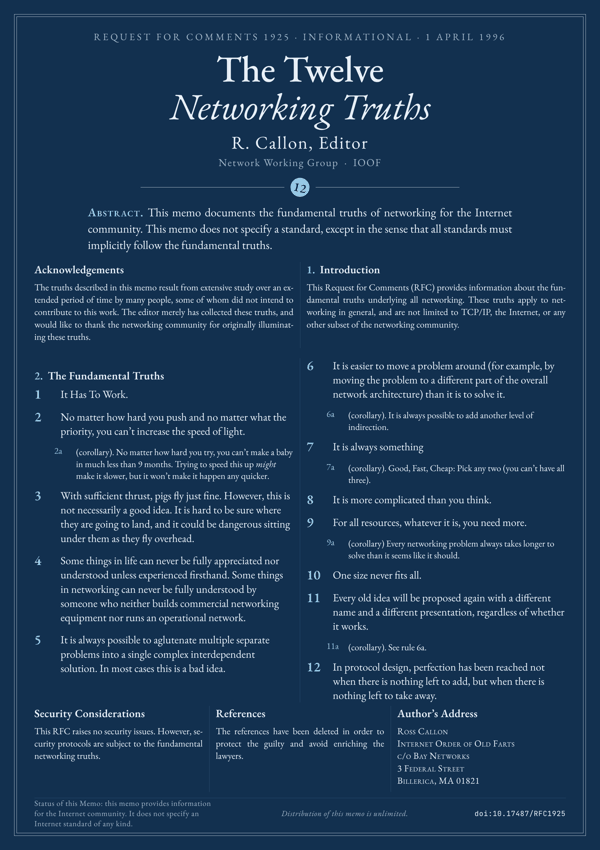
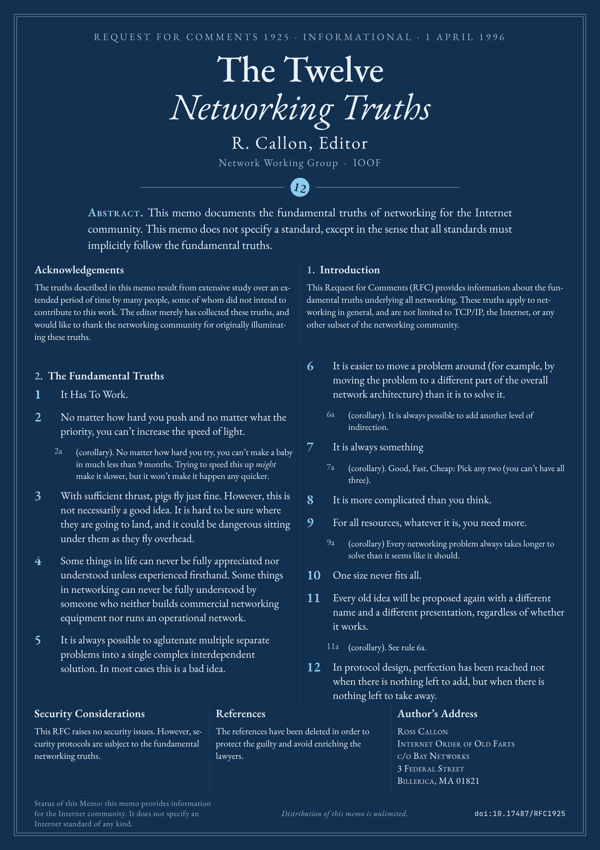
feat(engine): ### and #### headings, left-aligned grid cells
- ### and #### make h3 and h4. With numbered: true every level is
  numbered (1., 1.1., 1.1.1.); a title that starts with a number such
  as 3.1. gets the same styling at every level
- Cells of ::: wide cols=N are left-aligned: justified text left wide
  gaps in narrow cells. The truths of rfc-1925 still end 1.92, 1.92
  and 0.08 lines apart (A, 50x70, 60x80), with unchanged body sizes
- rfc-791 uses ### and #### instead of raw HTML headings. Same
  rendering, except that the "Specific Option Definitions" heading
  loses a border it had inherited by accident from the .defs class of
  the template
- README: rfc-791 prints at A1 or larger

bitcoin and zen-of-python are byte-identical to the previous commit.

diff --git a/engine/template.html b/engine/template.html
@@ -35,8 +35,11 @@ main{column-count:var(--cols);column-gap:13mm;column-rule:.2mm solid var(--rule)
 [data-layout=centered] .abs{text-align:center;hyphens:manual}
 p{margin:0 0 .55em;text-indent:0}
 h2{font-weight:600;font-size:calc(var(--fs)*1.2);margin:.9em 0 .35em;break-after:avoid;letter-spacing:.01em;hyphens:manual}
-h2 .n{color:var(--acc);margin-right:.2em}
-.flow>h2:first-child{margin-top:0}
+h3,h4{font-weight:600;margin:.8em 0 .3em;break-after:avoid;hyphens:manual}
+h3{font-size:1.05em}
+h4{font-size:1em;font-style:italic}
+h2 .n,h3 .n,h4 .n{color:var(--acc);margin-right:.2em}
+.flow>:is(h2,h3,h4):first-child{margin-top:0}
 cite{font-style:normal;color:var(--mute)}
 figure{margin:.8em 0 1em;break-inside:avoid}
 svg.fig{width:100%;height:auto;display:block;overflow:visible}
@@ -78,9 +81,9 @@ svg .mk{fill:var(--ink)}svg .mko{fill:var(--acc)}.katex{color:var(--ink)}
 .wide{column-span:all;margin:.4em 0 1.1em}
 .flow>.wide:first-child{margin-top:0}
 .wide.grid{display:grid;grid-template-columns:repeat(var(--wcols),minmax(0,1fr));column-gap:13mm}
-.wide.grid>.cell{position:relative}
+.wide.grid>.cell{position:relative;text-align:left}
 .wide.grid>.cell+.cell::before{content:"";position:absolute;left:-6.5mm;top:0;bottom:0;border-left:.2mm solid var(--rule)}
-.wide>h2:first-child,.cell>h2:first-child{margin-top:0}
+:is(.wide,.cell)>:is(h2,h3,h4):first-child{margin-top:0}
 /* footnotes: superscript calls, the notes listed at the end of the text */
 sup.fn{font-size:.62em;line-height:0;color:var(--acc);margin-left:.08em}
 .footnotes{font-size:.82em;line-height:1.3;border-top:.2mm solid var(--rule);margin-top:.9em;padding-top:.5em;text-align:left;hyphens:none}

diff --git a/papers/rfc-791/style.css b/papers/rfc-791/style.css
@@ -1,10 +1,11 @@
 /* The RFC nests its descriptions by indentation: fields, option names, sub-fields */
-h3,h4,h5{margin:.85em 0 .25em;break-after:avoid;text-align:left;hyphens:manual}
-h3{font-size:1.08em;font-weight:600}
-h3 span,h5 span{font-weight:400;color:var(--mute)}
-h4{font-size:1em;font-weight:600;font-style:italic}
-h4.defs{font-style:normal;font-variant:small-caps;letter-spacing:.05em;color:var(--acc);margin-top:1.1em}
-h5{font-size:.95em;font-weight:600}
+h3,h4{margin:.85em 0 .25em;text-align:left}
+h3{font-size:1.08em}
+h3 span,h4 span{font-weight:400;color:var(--mute)}
+/* the heading of the option definitions carries no size: a small-caps divider */
+h3:not(:has(span)){font-size:1em;font-variant:small-caps;letter-spacing:.05em;color:var(--acc);margin-top:1.1em}
+/* the sub-fields of the Security option carry a size: upright, a little smaller */
+h4:has(span){font-size:.95em;font-style:normal}
 .quote{padding-left:.8em;border-left:.6mm solid var(--acc)}
 /* Figure 4, the header itself, is the centrepiece of the poster */
 .wide pre.code{font-size:calc(var(--fs)*1.45);width:fit-content;margin:.6em auto .3em;padding:.9em 1.4em}

diff --git a/engine/markdown.py b/engine/markdown.py
@@ -1,7 +1,9 @@
 """Minimal Markdown dialect for posters.
 
 Blocks (separated by blank lines):
-  ## Heading                 section title (auto-numbered if meta.numbered)
+  ## Heading                 section title, ### and #### for sub-sections; numbered 1., 1.1.,
+                             1.1.1. with meta.numbered, and a number that starts a title,
+                             such as 3.1., is set the same way
   ::: figure <name>          SVG figure from the paper's figures.py
   ::: wide [cols=N]          block across all the columns, closed by a ":::" line, holding any
   ...                        of these blocks; with cols=N (default 1) its "## " sections sit side
@@ -98,7 +100,7 @@ class Renderer:
     """State shared by the whole text: math, section numbers, footnotes."""
     def __init__(self, figures, numbered):
         self.figures, self.numbered = figures, numbered
-        self.math, self.sec, self.in_refs = [], 0, False
+        self.math, self.nums, self.in_refs = [], [0, 0, 0], False  # nums: ##, ###, #### counters
         self.notes = {}  # label: (line of the definition, text)
         self.calls = {}  # label: line of the first call, in the order of first calls
 
@@ -122,17 +124,10 @@ class Renderer:
                 tex = '\n'.join(l for l in b.split('\n') if l.strip())
                 self.math.append(tex.strip()[2:-2].strip())
                 out.append(f'<div class="eq"><!--MATH:{len(self.math)-1}--></div>')
-            elif b.startswith('## '):
-                title = b[3:].strip()
-                self.in_refs = title.lower() == 'references'
-                if self.numbered and not self.in_refs:
-                    self.sec += 1
-                    out.append(f'<h2><span class="n">{self.sec}.</span> {self.inline(title, line)}</h2>')
-                else:
-                    title = re.sub(r'^((?:\d+\.)+)\s*', r'<span class="n">\1</span> ', self.inline(title, line))
-                    out.append(f'<h2{" class=refs" if self.in_refs else ""}>{title}</h2>')
+            elif m := re.match(r'(#{2,4}) ', b):
+                out.append(self.heading(len(m.group(1)), b[m.end():].strip(), line))
             elif re.match(r'#+\s', b):
-                raise MarkdownError(line, 'only level-2 headings ("## ") are supported')
+                raise MarkdownError(line, 'headings are "##", "###" or "####"')
             elif b.startswith(':::'):
                 out.append(self.directive(line, b))
             elif m := NOTE_DEF.match(b):
@@ -167,6 +162,18 @@ class Renderer:
             else:
                 out.append(f'<p>{self.inline(b, line)}</p>')
         return out
+
+    def heading(self, level, title, line):
+        if level == 2:
+            self.in_refs = title.lower() == 'references'
+        title = self.inline(title, line)
+        if self.numbered and not self.in_refs:
+            self.nums[level - 2] += 1
+            self.nums[level - 1:] = [0] * (4 - level)
+            n = '.'.join(map(str, self.nums[:level - 1])) + '.'
+            return f'<h{level}><span class="n">{n}</span> {title}</h{level}>'
+        title = re.sub(r'^((?:\d+\.)+)\s*', r'<span class="n">\1</span> ', title)
+        return f'<h{level}{" class=refs" if level == 2 and self.in_refs else ""}>{title}</h{level}>'
 
     def directive(self, line, b):
         head, *rest = b.split('\n')

diff --git a/papers/rfc-791/text.md b/papers/rfc-791/text.md
@@ -28,15 +28,15 @@ Note that each tick mark represents one bit position.
 
 :::
 
-<h3>Version: <span>4 bits</span></h3>
+### Version: <span>4 bits</span>
 
 The Version field indicates the format of the internet header.  This document describes version 4.
 
-<h3>IHL: <span>4 bits</span></h3>
+### IHL: <span>4 bits</span>
 
 Internet Header Length is the length of the internet header in 32 bit words, and thus points to the beginning of the data.  Note that the minimum value for a correct header is 5.
 
-<h3>Type of Service: <span>8 bits</span></h3>
+### Type of Service: <span>8 bits</span>
 
 The Type of Service provides an indication of the abstract parameters of the quality of service desired.  These parameters are to be used to guide the selection of the actual service parameters when transmitting a datagram through a particular network.  Several networks offer service precedence, which somehow treats high precedence traffic as more important than other traffic (generally by accepting only traffic above a certain precedence at time of high load).  The major choice is a three way tradeoff between low-delay, high-reliability, and high-throughput.
 
@@ -72,17 +72,17 @@ The type of service is used to specify the treatment of the datagram during its 
 
 The Network Control precedence designation is intended to be used within a network only.  The actual use and control of that designation is up to each network. The Internetwork Control designation is intended for use by gateway control originators only. If the actual use of these precedence designations is of concern to a particular network, it is the responsibility of that network to control the access to, and use of, those precedence designations.
 
-<h3>Total Length: <span>16 bits</span></h3>
+### Total Length: <span>16 bits</span>
 
 Total Length is the length of the datagram, measured in octets, including internet header and data.  This field allows the length of a datagram to be up to 65,535 octets.  Such long datagrams are impractical for most hosts and networks.  All hosts must be prepared to accept datagrams of up to 576 octets (whether they arrive whole or in fragments).  It is recommended that hosts only send datagrams larger than 576 octets if they have assurance that the destination is prepared to accept the larger datagrams.
 
 The number 576 is selected to allow a reasonable sized data block to be transmitted in addition to the required header information.  For example, this size allows a data block of 512 octets plus 64 header octets to fit in a datagram.  The maximal internet header is 60 octets, and a typical internet header is 20 octets, allowing a margin for headers of higher level protocols.
 
-<h3>Identification: <span>16 bits</span></h3>
+### Identification: <span>16 bits</span>
 
 An identifying value assigned by the sender to aid in assembling the fragments of a datagram.
 
-<h3>Flags: <span>3 bits</span></h3>
+### Flags: <span>3 bits</span>
 
 Various Control Flags.
 
@@ -98,21 +98,21 @@ Bit 2: (MF) 0 = Last Fragment, 1 = More Fragments.
   +---+---+---+
 ```
 
-<h3>Fragment Offset: <span>13 bits</span></h3>
+### Fragment Offset: <span>13 bits</span>
 
 This field indicates where in the datagram this fragment belongs.
 
 The fragment offset is measured in units of 8 octets (64 bits).  The first fragment has offset zero.
 
-<h3>Time to Live: <span>8 bits</span></h3>
+### Time to Live: <span>8 bits</span>
 
 This field indicates the maximum time the datagram is allowed to remain in the internet system.  If this field contains the value zero, then the datagram must be destroyed.  This field is modified in internet header processing.  The time is measured in units of seconds, but since every module that processes a datagram must decrease the TTL by at least one even if it process the datagram in less than a second, the TTL must be thought of only as an upper bound on the time a datagram may exist.  The intention is to cause undeliverable datagrams to be discarded, and to bound the maximum datagram lifetime.
 
-<h3>Protocol: <span>8 bits</span></h3>
+### Protocol: <span>8 bits</span>
 
 This field indicates the next level protocol used in the data portion of the internet datagram.  The values for various protocols are specified in "Assigned Numbers" [9].
 
-<h3>Header Checksum: <span>16 bits</span></h3>
+### Header Checksum: <span>16 bits</span>
 
 A checksum on the header only.  Since some header fields change (e.g., time to live), this is recomputed and verified at each point that the internet header is processed.
 
@@ -126,15 +126,15 @@ The checksum field is the 16 bit one's complement of the one's complement sum of
 
 This is a simple to compute checksum and experimental evidence indicates it is adequate, but it is provisional and may be replaced by a CRC procedure, depending on further experience.
 
-<h3>Source Address: <span>32 bits</span></h3>
+### Source Address: <span>32 bits</span>
 
 The source address.  See section 3.2.
 
-<h3>Destination Address: <span>32 bits</span></h3>
+### Destination Address: <span>32 bits</span>
 
 The destination address.  See section 3.2.
 
-<h3>Options: <span>variable</span></h3>
+### Options: <span>variable</span>
 
 The options may appear or not in datagrams.  They must be implemented by all IP modules (host and gateways).  What is optional is their transmission in any particular datagram, not their implementation.
 
@@ -201,9 +201,9 @@ CLASS NUMBER LENGTH DESCRIPTION
   2     4     var.  Internet Timestamp.
 ```
 
-<h4 class="defs">Specific Option Definitions</h4>
+### Specific Option Definitions
 
-<h4>End of Option List</h4>
+#### End of Option List
 
 ```
 +--------+
@@ -216,7 +216,7 @@ This option indicates the end of the option list.  This might not coincide with 
 
 May be copied, introduced, or deleted on fragmentation, or for any other reason.
 
-<h4>No Operation</h4>
+#### No Operation
 
 ```
 +--------+
@@ -229,7 +229,7 @@ This option may be used between options, for example, to align the beginning of 
 
 May be copied, introduced, or deleted on fragmentation, or for any other reason.
 
-<h4>Security</h4>
+#### Security
 
 This option provides a way for hosts to send security, compartmentation, handling restrictions, and TCC (closed user group) parameters.  The format for this option is as follows:
 
@@ -240,7 +240,7 @@ This option provides a way for hosts to send security, compartmentation, handlin
  Type=130 Length=11
 ```
 
-<h5>Security (S field): <span>16 bits</span></h5>
+#### Security (S field): <span>16 bits</span>
 
 Specifies one of 16 levels of security (eight of which are reserved for future use).
 
@@ -263,21 +263,21 @@ Specifies one of 16 levels of security (eight of which are reserved for future u
 11100010 01101011 - (Reserved for future use)
 ```
 
-<h5>Compartments (C field): <span>16 bits</span></h5>
+#### Compartments (C field): <span>16 bits</span>
 
 An all zero value is used when the information transmitted is not compartmented.  Other values for the compartments field may be obtained from the Defense Intelligence Agency.
 
-<h5>Handling Restrictions (H field): <span>16 bits</span></h5>
+#### Handling Restrictions (H field): <span>16 bits</span>
 
 The values for the control and release markings are alphanumeric digraphs and are defined in the Defense Intelligence Agency Manual DIAM 65-19, "Standard Security Markings".
 
-<h5>Transmission Control Code (TCC field): <span>24 bits</span></h5>
+#### Transmission Control Code (TCC field): <span>24 bits</span>
 
 Provides a means to segregate traffic and define controlled communities of interest among subscribers. The TCC values are trigraphs, and are available from HQ DCA Code 530.
 
 Must be copied on fragmentation.  This option appears at most once in a datagram.
 
-<h4>Loose Source and Record Route</h4>
+#### Loose Source and Record Route
 
 ```
 +--------+--------+--------+---------//--------+
@@ -302,7 +302,7 @@ This option is a loose source route because the gateway or host IP is allowed to
 
 Must be copied on fragmentation.  Appears at most once in a datagram.
 
-<h4>Strict Source and Record Route</h4>
+#### Strict Source and Record Route
 
 ```
 +--------+--------+--------+---------//--------+
@@ -327,7 +327,7 @@ This option is a strict source route because the gateway or host IP must send th
 
 Must be copied on fragmentation.  Appears at most once in a datagram.
 
-<h4>Record Route</h4>
+#### Record Route
 
 ```
 +--------+--------+--------+---------//--------+
@@ -348,7 +348,7 @@ If the route data area is already full (the pointer exceeds the length) the data
 
 Not copied on fragmentation, goes in first fragment only. Appears at most once in a datagram.
 
-<h4>Stream Identifier</h4>
+#### Stream Identifier
 
 ```
 +--------+--------+--------+--------+
@@ -361,7 +361,7 @@ This option provides a way for the 16-bit SATNET stream identifier to be carried
 
 Must be copied on fragmentation.  Appears at most once in a datagram.
 
-<h4>Internet Timestamp</h4>
+#### Internet Timestamp
 
 ```
 +--------+--------+--------+--------+
@@ -406,7 +406,7 @@ If there is some room but not enough room for a full timestamp to be inserted, o
 
 The timestamp option is not copied upon fragmentation.  It is carried in the first fragment.  Appears at most once in a datagram.
 
-<h3>Padding: <span>variable</span></h3>
+### Padding: <span>variable</span>
 
 The internet header padding is used to ensure that the internet header ends on a 32 bit boundary.  The padding is zero.
 

diff --git a/README.md b/README.md
@@ -28,7 +28,7 @@ Tim Peters, 2004. The nineteen aphorisms, set as a typographic poster; comfortab
 | ![](docs/zen-of-python-ivory.png) | ![](docs/zen-of-python-white.png) | ![](docs/zen-of-python-genesis.png) | ![](docs/zen-of-python-blueprint.png) |
 
 ### RFC 791: Internet Protocol (excerpt)
-Jon Postel, Editor, September 1981. Section 3.1, the Internet Header Format, with Figure 4 across the page, drawn exactly as in the RFC.
+Jon Postel, Editor, September 1981. Section 3.1, the Internet Header Format, with Figure 4 across the page, drawn exactly as in the RFC. Dense text: print at A1 or larger.
 
 | ivory | white | genesis | blueprint |
 |---|---|---|---|
@@ -79,10 +79,10 @@ Create `papers/<name>/` with:
 
 | Syntax | Effect |
 |---|---|
-| `## Title` | section heading, numbered automatically with `numbered: true` |
+| `## Title`, `### Title`, `#### Title` | headings; with `numbered: true` they are numbered 1., 1.1., 1.1.1., and a title that starts with a number such as `3.1.` gets the same styling |
 | `::: figure <name>` | an SVG figure from `figures.py` |
 | `::: wide` … `:::` | a block across all the columns, holding any other syntax (code, math, figures, HTML) |
-| `::: wide cols=N` … `:::` | the `##` sections of the block side by side, one per cell of an N-column grid (see `papers/rfc-1925`) |
+| `::: wide cols=N` … `:::` | the `##` sections of the block side by side, one per left-aligned cell of an N-column grid (see `papers/rfc-1925`) |
 | `$$ … $$` | display math, rendered with KaTeX |
 | `(1)`, `(1a)` | labelled items; a sub-item such as `(1a)` stays in the same column as its item |
 | `[^label]`, `[^label]: text` | footnote call and definition; notes are numbered in order of first call and listed at the end of the text |
